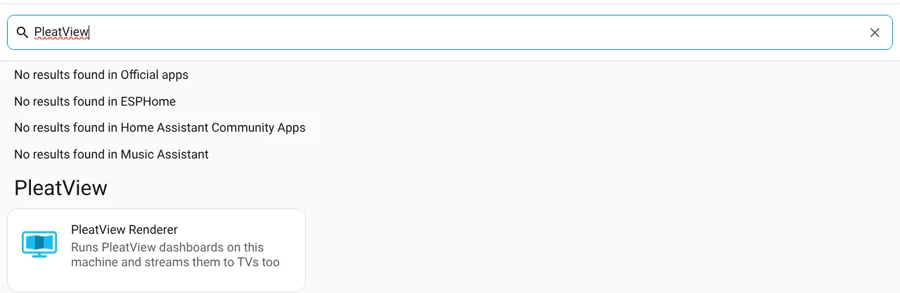
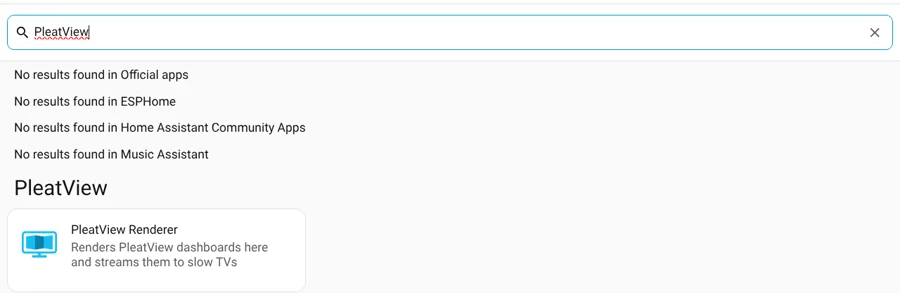
Render guide: the Docker route as an alternative (#93)
Step 1 now says to pick one way: the app on Home Assistant OS or Supervised,
or, folded away as an alternative, Docker for Home Assistant Container. The
store, app and log pictures are retaken with the shorter description. The
docker build points at the latest release tag until the next one.

Changed region(s): [[0.0622, 0.8294, 0.3111, 0.9215]]

diff --git a/docs/render-on-home-assistant.md b/docs/render-on-home-assistant.md
@@ -29,7 +29,9 @@ The Home Assistant machine, an Intel Core i5-7500 with Quick Sync, used about 2.
 
 ## 1. Install the renderer
 
-### Home Assistant OS: as an app
+Pick the way that matches your Home Assistant. On **Home Assistant OS** or Supervised, which
+most installs are, the renderer is an app, as below. On **Home Assistant Container**, use the
+alternative at the end of this step instead.
 
 Home Assistant 2026 calls add-ons *apps*. On older versions, read *Add-ons* and *Add-on
 store* below.
@@ -57,21 +59,24 @@ Home Assistant the same one: `http://ce7dee09-pleatview-renderer:8780`.
 
 ![The renderer's log, with the address to use](img/render-5-log.webp)
 
-### Home Assistant Container: next to it
+<details>
+<summary><b>Alternative: Home Assistant Container</b> (Home Assistant in Docker, without the App store)</summary>
 
 Build the renderer from source and run it on the same machine:
 
 ```sh
-docker build -t pleatview-renderer https://github.com/Hustlesman/pleatview.git#v1.0.16:renderer
+docker build -t pleatview-renderer https://github.com/Hustlesman/pleatview.git#v1.0.15:renderer
 docker run -d --name pleatview-renderer --restart unless-stopped --network host \
   -e HOST=127.0.0.1 --device /dev/dri pleatview-renderer
 ```
 
-Its address is then `http://127.0.0.1:8780`, as its log says. Leave out
+Its address is then `http://127.0.0.1:8780`. Leave out
 `--device /dev/dri` on a machine without Intel or AMD graphics; the processor encodes
 instead, using about one core per TV.
 
 ![The renderer's log in a terminal, with the address to use](img/render-7-docker.webp)
+
+</details>
 
 ## 2. Turn it on for a TV
 
